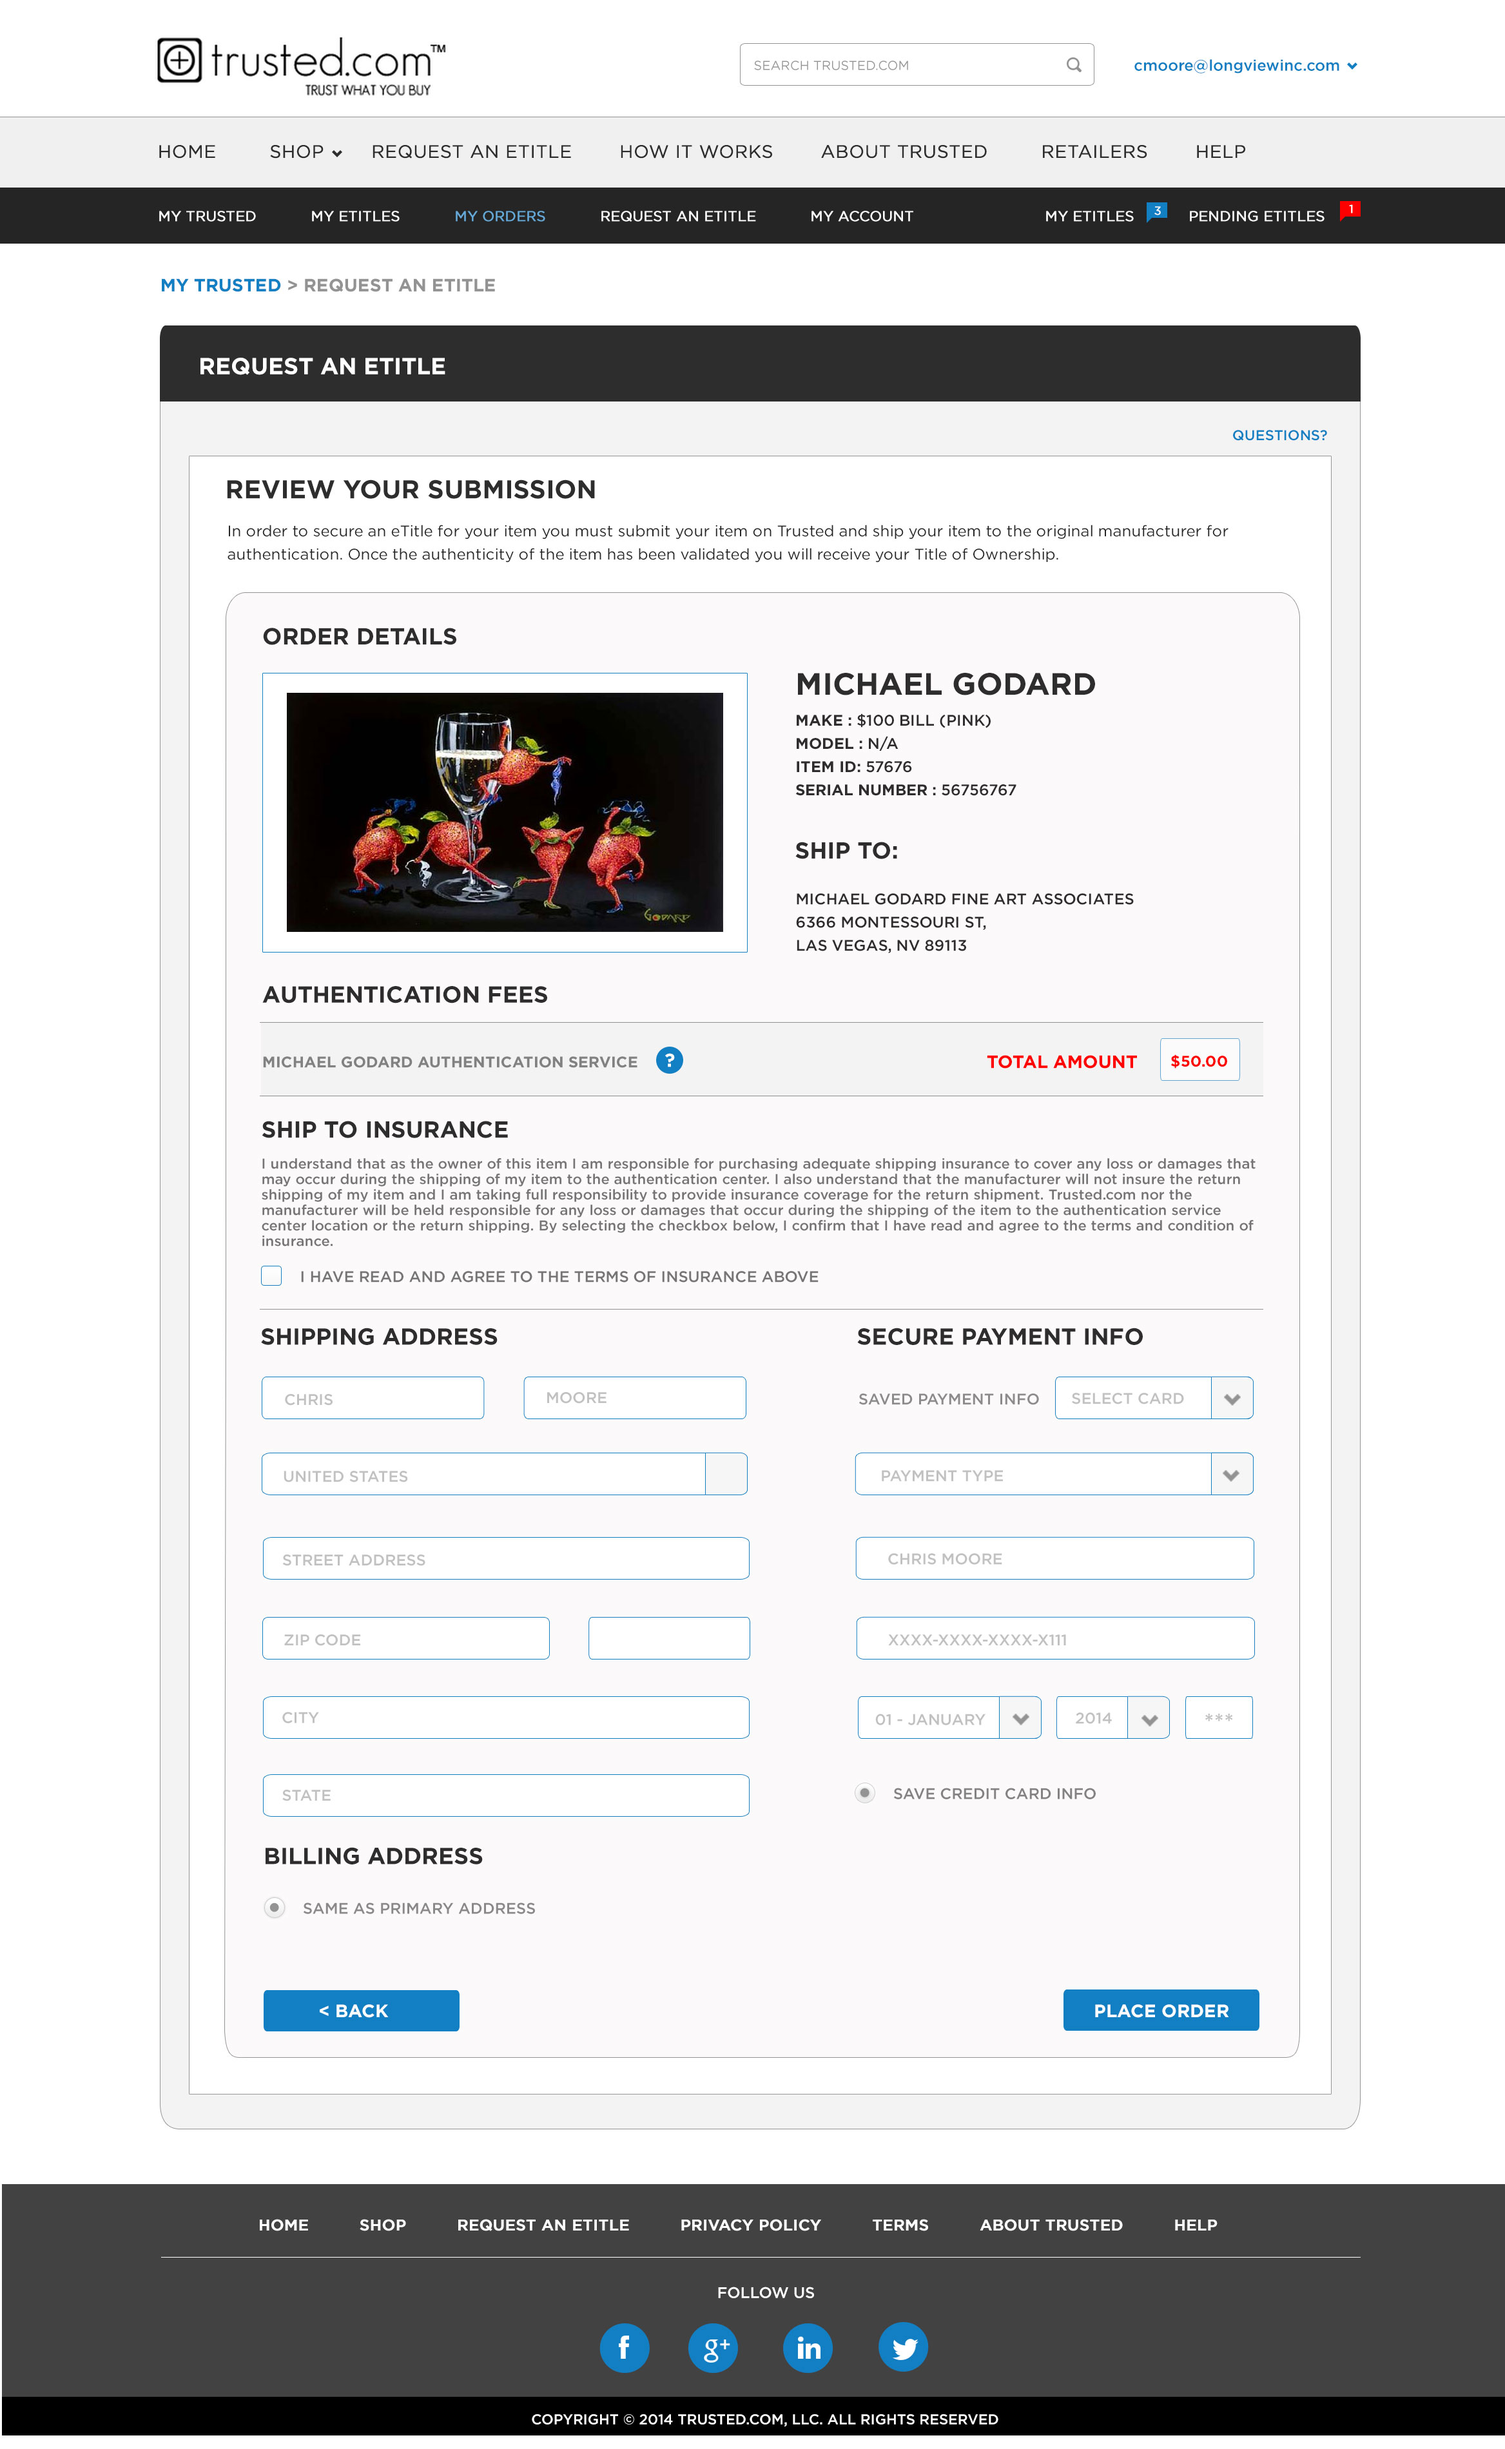
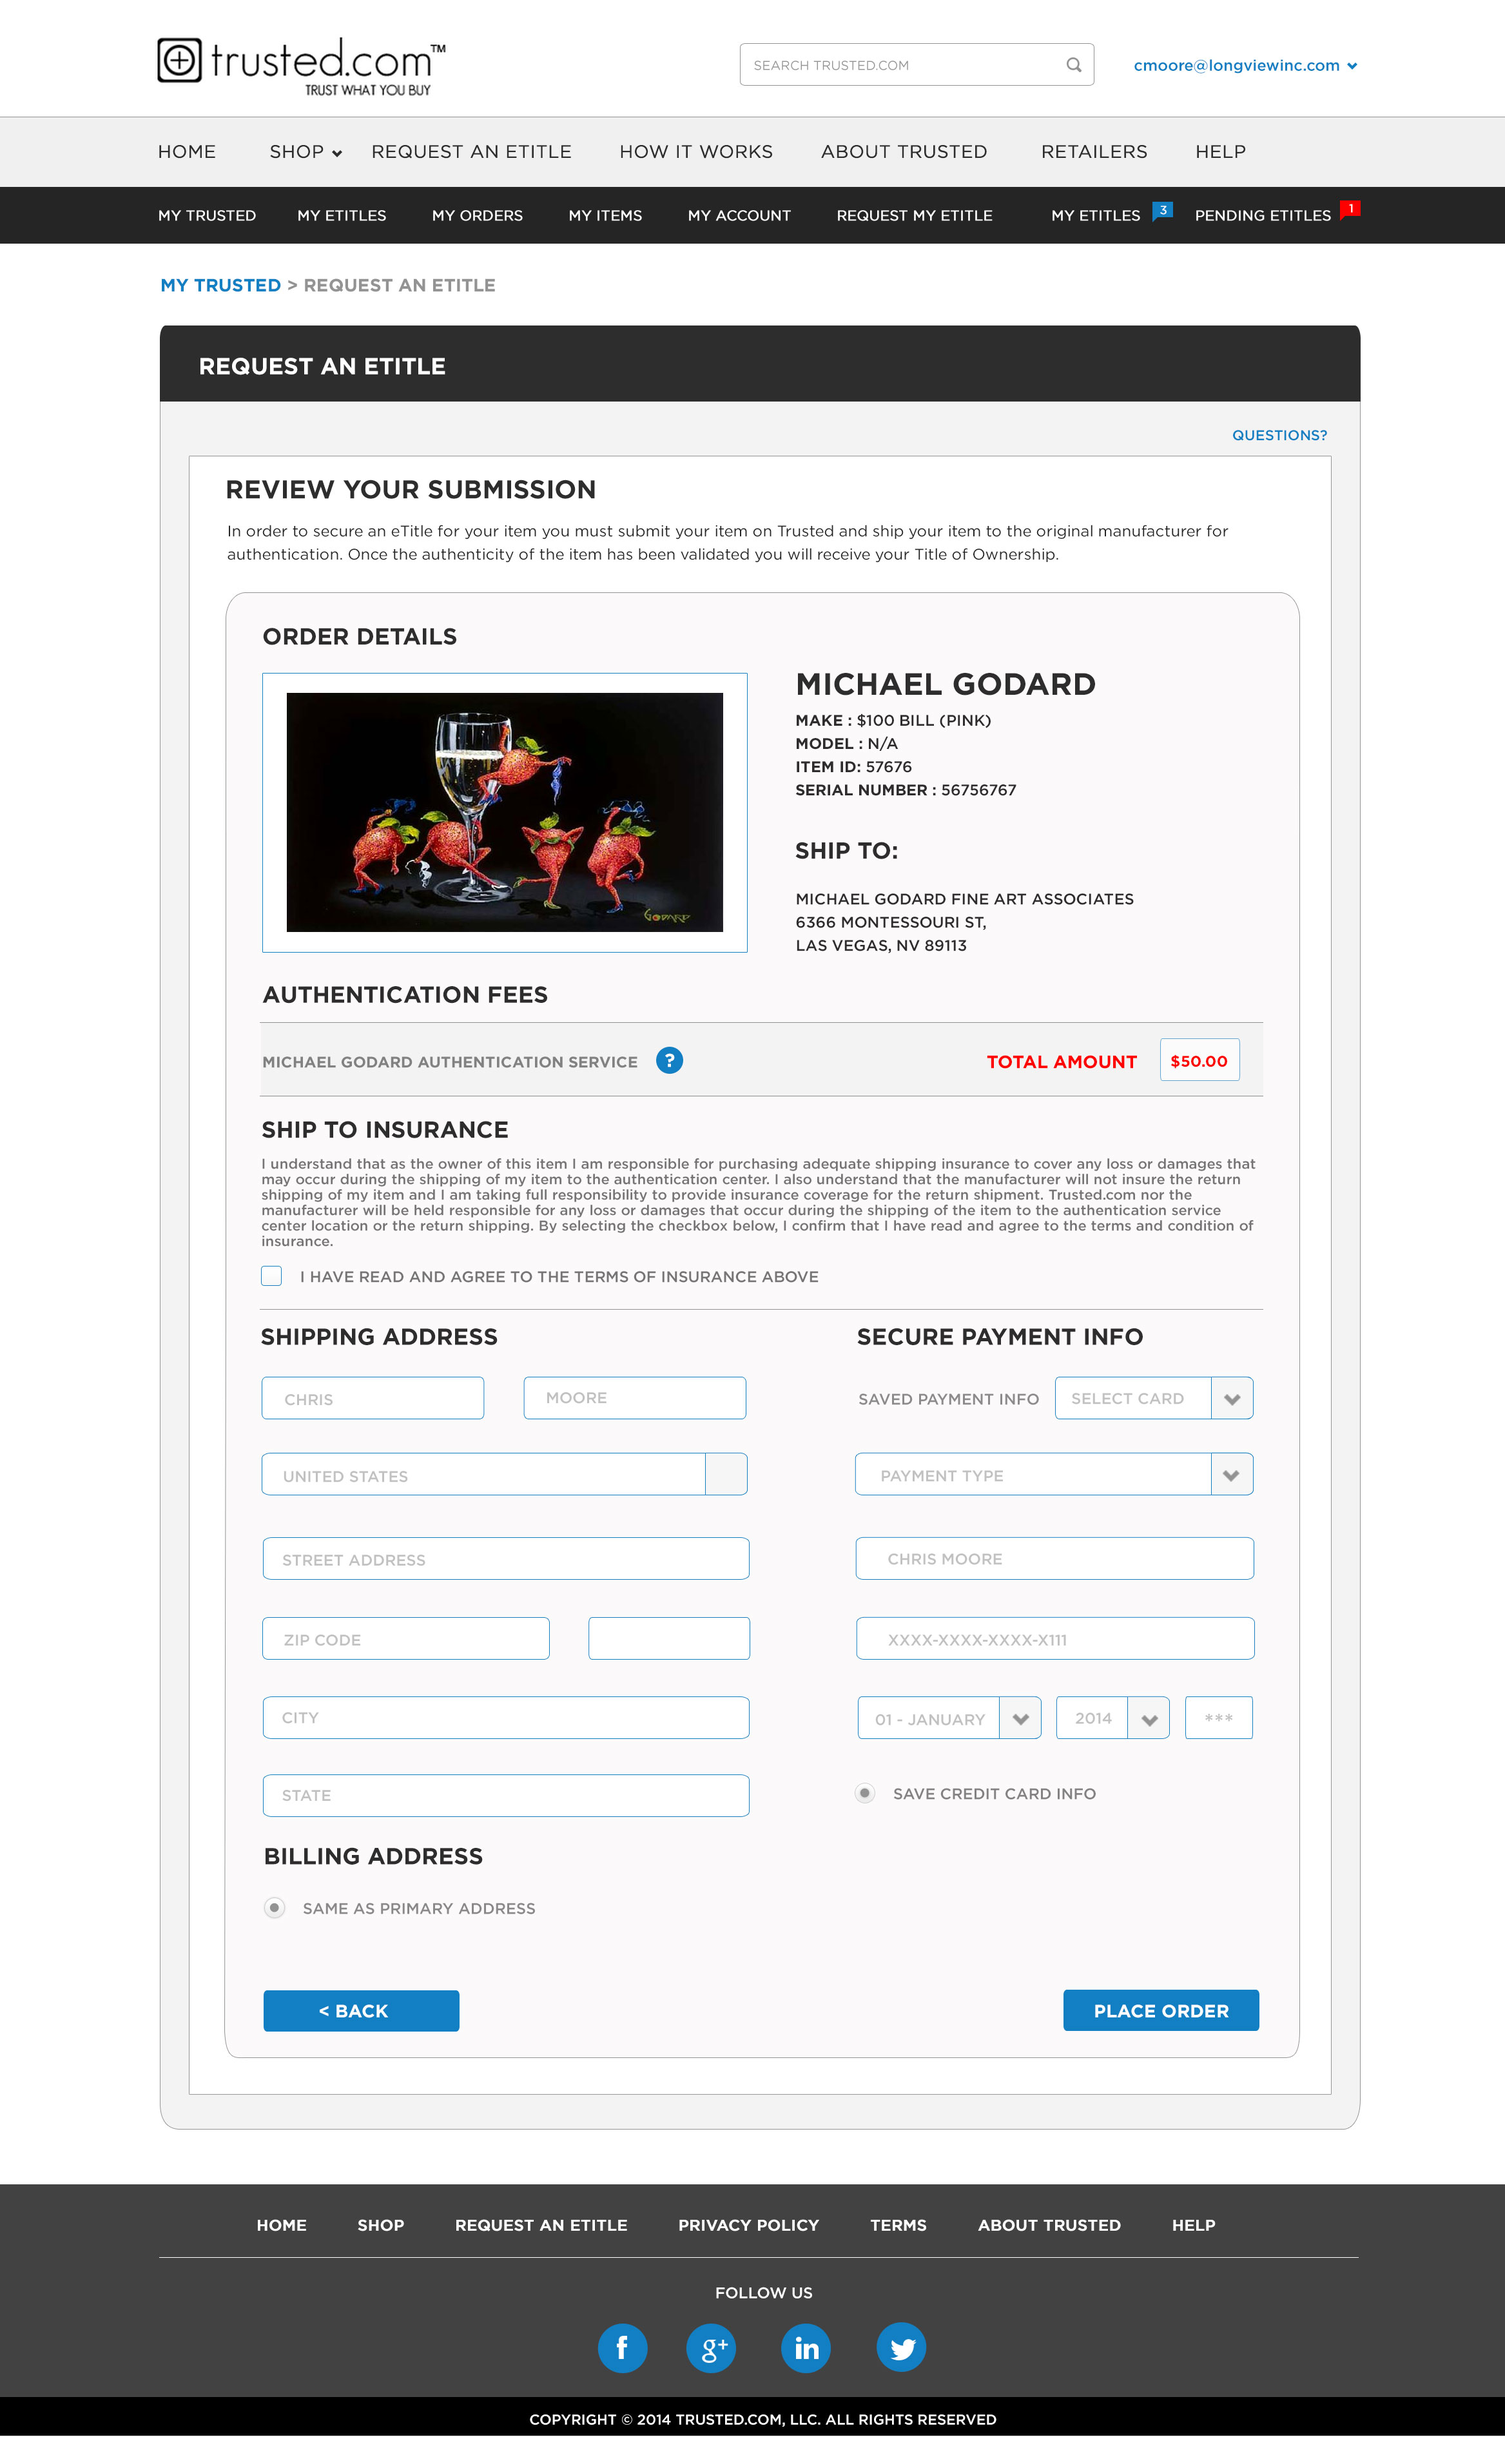
Updates

diff --git a/request-confirm.html b/request-confirm.html
@@ -17,10 +17,10 @@ img {
 <body>
 
 <img src="images/trusted-request-etitle-review-ux.jpg" alt="" width="2335" height="3800" usemap="#Map"/>
-<map name="Map">
-  <area shape="rect" coords="621,153,722,181" href="account-profile.html">
-  <area shape="rect" coords="462,150,594,178" href="account-profile.html">
-  <area shape="rect" coords="344,150,433,178" href="my-orders.html">
+<map name="Map"><area shape="rect" coords="431,155,513,180" href="my-items.html">
+  <area shape="rect" coords="528,153,629,181" href="account-profile.html">
+  <area shape="rect" coords="648,151,780,179" href="account-profile.html">
+  <area shape="rect" coords="328,152,417,180" href="my-orders.html">
   <area shape="rect" coords="117,151,206,181" href="index.html"> 
   <area shape="rect" coords="233,151,319,180" href="my-etitles.html">
   <area shape="rect" coords="824,1542,977,1580" href="request-thanks.html">

diff --git a/request.html b/request.html
@@ -17,10 +17,10 @@ img {
 <body>
 
 <img src="images/trusted-request-etitle-ux.jpg" alt="" width="2335" height="2757" usemap="#Map"/>
-<map name="Map">
-  <area shape="rect" coords="617,154,718,182" href="account-profile.html">
-  <area shape="rect" coords="343,156,432,184" href="my-orders.html">
-  <area shape="rect" coords="461,152,593,180" href="request.html">
+<map name="Map"><area shape="rect" coords="431,155,513,180" href="my-items.html">
+  <area shape="rect" coords="525,152,626,180" href="account-profile.html">
+  <area shape="rect" coords="325,156,414,184" href="my-orders.html">
+  <area shape="rect" coords="647,151,779,179" href="request.html">
   <area shape="rect" coords="226,155,312,184" href="my-etitles.html"> 
   <area shape="rect" coords="111,151,200,181" href="index.html">
   <area shape="rect" coords="829,1026,982,1064" href="request-confirm.html">
